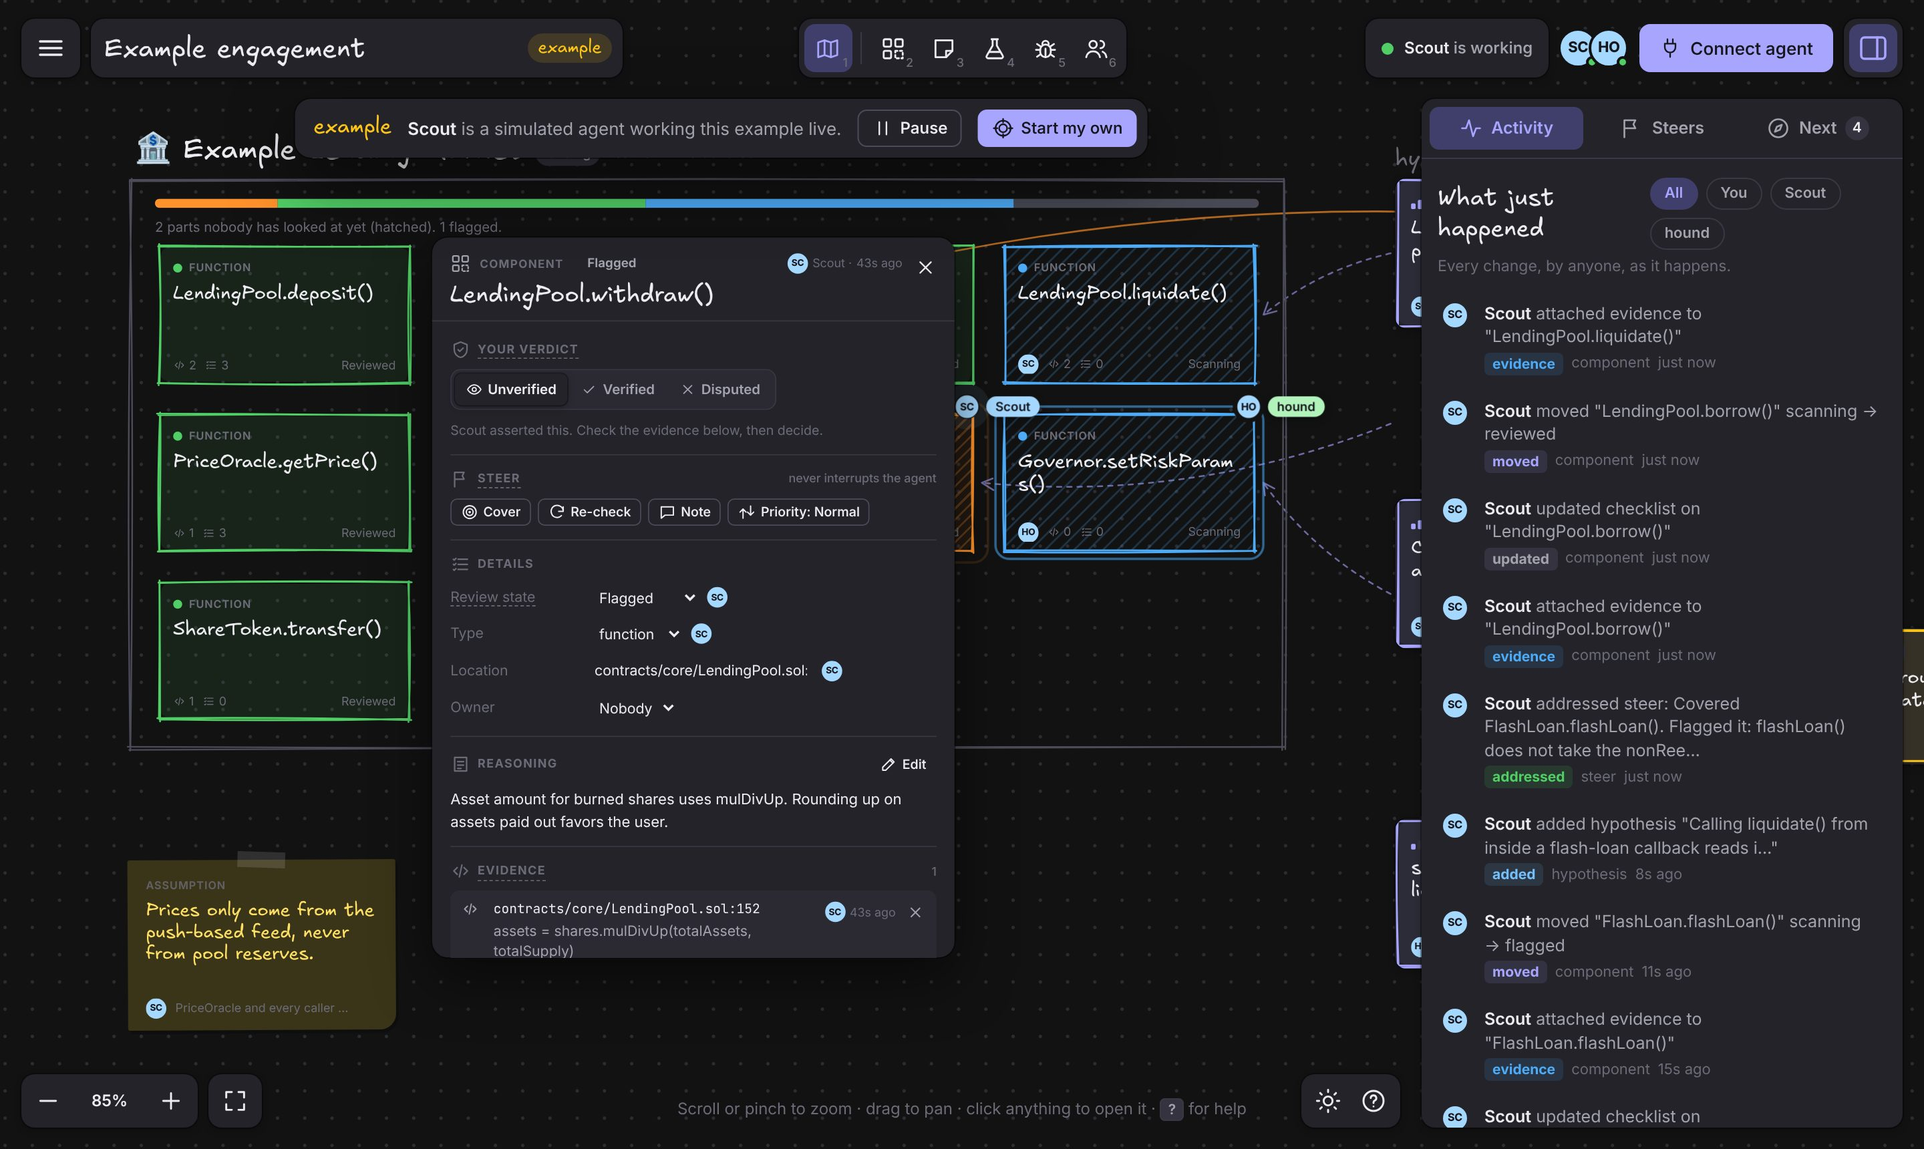
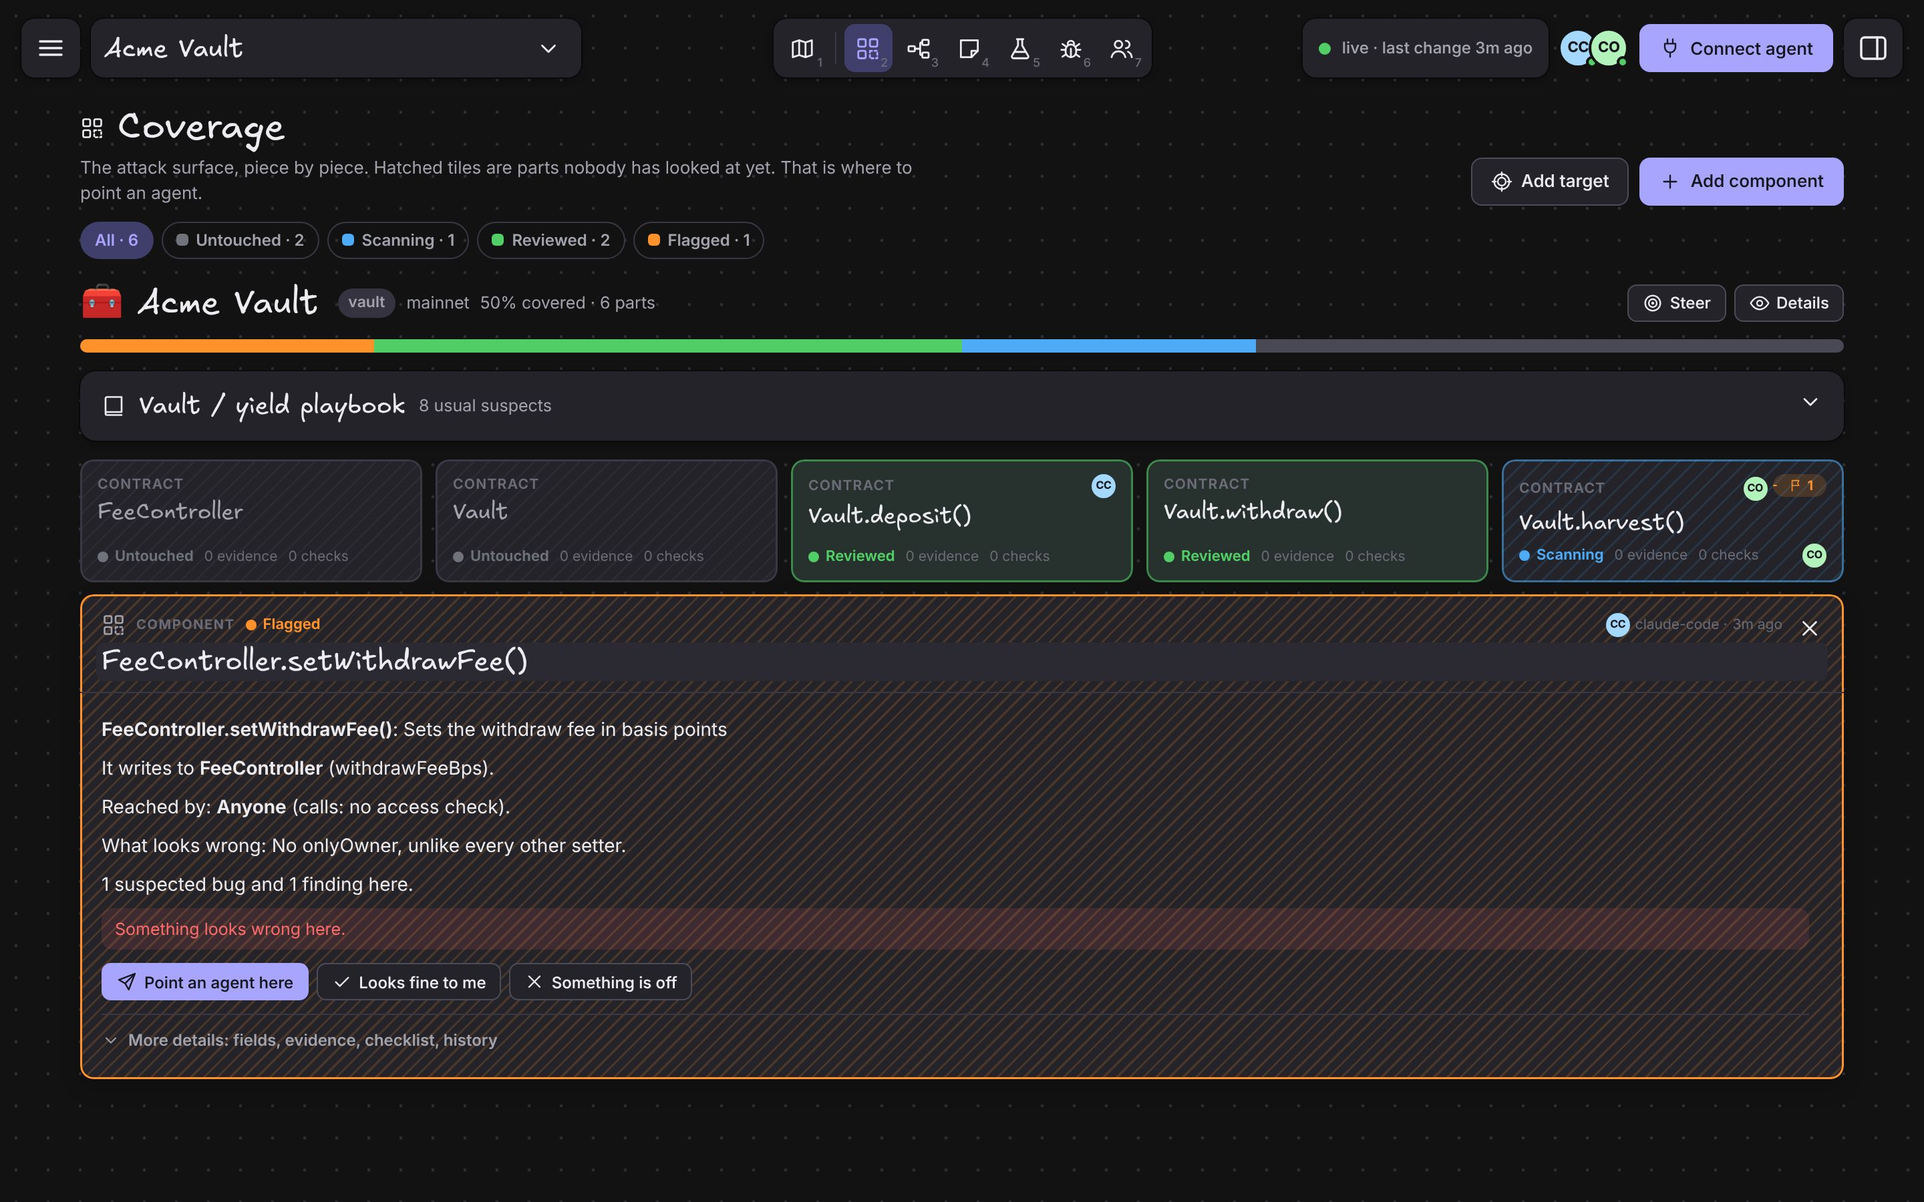
README: every feature, with fresh screenshots
Rewrites the README around what recon does now, in the same voice: the
engagement map, map first then hunt, the full-screen system map and its
flow, plain-language details, findings that hold up, steers that cannot be
ignored, agents that come to you, talking from the board, reports from your
skill, skills, hunts that last, the knowledge layer, swarms and themes. Each
comes with a screenshot of a realistic hunt built through the public API.

diff --git a/README.md b/README.md
@@ -9,6 +9,8 @@ can't see its progress, can't check what it did, and can't hand it the
 live, human-readable board. The agents do the tireless scanning, you bring
 intuition and judgement, and each side sees the other's work as it happens.
 
+![The engagement at a glance, with what needs you on the right](docs/img/map.jpg)
+
 ## Start in one line
 
 **Paste this into any coding agent** (Claude Code, OpenCode, Grok CLI, Codex, Gemini CLI, Cursor, anything with a terminal):
@@ -18,9 +20,9 @@ Run `npx -y github:devIykee/recon agent` and follow its instructions to do this 
 ```
 
 That's it: no install, no config, no restart. The agent starts the board in the
-background, tells you where it is (http://127.0.0.1:4317), sets up the
-engagement, and starts recording what it reviews, suspects and confirms. You watch,
-verify, dispute and steer from the browser.
+background, tells you where it is (http://127.0.0.1:4317), sets up the hunt for
+the project it is in, and starts recording what it maps, suspects and confirms.
+You watch, verify, dispute and steer from the browser.
 
 **Or install the tools once in your terminal**, so recon shows up as native MCP
 tools in every agent you have:
@@ -40,11 +42,16 @@ the project the agent is working in, and an agent switches with
 `recon-yeno`, …), `setup` lists them and `setup --clean` removes them.
 
 Needs Node 20+. Zero dependencies. Everything stays on your machine, in `~/.recon`.
+To type `recon` anywhere, put it on your PATH once:
+
+```sh
+echo 'export PATH="$HOME/.recon/bin:$PATH"' >> ~/.bashrc && source ~/.bashrc
+```
 
 ### Update
 
 ```sh
-recon update            # or: ~/.recon/bin/recon update
+recon update            # the first time: npx -y github:devIykee/recon#main update
 ```
 
 It downloads the latest recon from GitHub, installs it in `~/.recon/app` and
@@ -57,44 +64,85 @@ existed needs its agent restarted once.)
 
 ### Tested with real agents
 
-Against a small vulnerable vault, a Claude Code agent given only the line above
-set up the engagement, mapped the attack surface, and found all three planted
-bugs (reentrancy, an unprotected fee setter, first-depositor inflation) with
-file:line evidence. It answered a steer left mid-run, and when its claim was
-disputed it re-checked and downgraded it. A second agent joined over MCP,
-challenged a trust assumption, and *proposed* a re-rating for a yes/no instead
-of acting on its own. `recon setup` registration was checked against the real
-Claude Code, OpenCode, Codex, Gemini CLI and Grok CLI binaries; Claude Code,
-OpenCode and Grok also confirmed a live connection with all recon tools listed.
-
-![The project map](docs/img/map.jpg)
+The core loop was run with real Claude Code agents, not only unit tests.
+Against a small vulnerable vault, an agent given only the line above scanned the
+source, mapped 17 parts and 20 connections, wrote down five assumptions its
+developers made, and filed both real High bugs (an unprotected fee setter and
+first-depositor inflation) with file:line evidence. It declined to call the
+obvious-looking reentrancy a bug, explained why, and said plainly that it could
+not run tests on that machine instead of inventing results. Steered mid-hunt
+with "drop what you are doing and check harvest()", it answered on the board in
+15 seconds. Waiting for the human, it woke 6 seconds after a message was
+written on the board. Given the board's facts and the disclosure skill, it
+wrote a report that passed every check on the first try. `recon setup` was
+checked against the real Claude Code, OpenCode, Codex, Gemini CLI and Grok CLI
+binaries.
 
 To try the built-in example without an agent: `npx -y github:devIykee/recon serve`.
 It opens on an example engagement worked live by **Scout**, a simulated agent.
 
 ## What you get
 
-**A map of the whole engagement.** Zoomed out, it is five blocks: coverage, open
-findings, hypotheses in flight, the agents, and where to look next. Zoom in and
-each target is a frame of components colored by review state. Hatched tiles are
-parts nobody has looked at; that is where bugs hide. Hypotheses and findings sit
-in lanes beside the target, assumptions are pinned below, and each agent's
+**The engagement at a glance.** The first page is a map of the whole hunt.
+Zoomed out, it is five blocks: coverage, open findings, suspected bugs, the
+agents, and the next move. Zoom in and each target is a frame of parts colored
+by review state. Hatched tiles are parts nobody has looked at; that is where
+bugs hide. Suspected bugs and findings sit in lanes beside the target, the
+developers' assumptions are pinned below as sticky notes, and each agent's
 marker walks to whatever it is working on. Click anything to expand it in place.
 
-**A full-screen system map** (press 3): every contract, the people and roles
-that use it and the outside systems it depends on, with each connection drawn
-as a colored arrow. Zoom and drag it like a canvas, or go browser full screen.
-Click a part and everything unrelated fades, so you can read what it calls and
-what can reach it; below the map, its full flow appears: every path from where
-it starts to where it ends, each step clickable to follow it, so you see the
-zoomed-in and the zoomed-out view at once. An overview in the corner shows
-where you are.
+**Map first, then hunt.** Before anyone looks for bugs, an agent maps how the
+system fits together: every contract, the people and roles that use it, the
+outside systems it depends on, and how each part calls, pays, reads, owns or
+trusts the others. `recon scan` draws most of it straight from the Solidity
+source: inheritance, typed calls with function names, token transfers, low-level
+calls, and who is allowed to call what. Then the agent writes down what the
+developers assume (who is trusted, which invariants must hold, what inputs and
+tokens they expect), because bugs live where those turn out false. Agents cannot
+skip ahead: they cannot leave the map while parts are unconnected, or start
+hunting before the assumptions are written down.
 
-**Boards** for coverage, assumptions, hypotheses, the findings pipeline
-(recon → testing → reported → acknowledged → fixed → disclosed, drag to move),
-and agents.
+![The system map, full screen](docs/img/system-map.jpg)
 
-![Expanding a component](docs/img/detail.jpg)
+**A system map you can read with your eyes** (press 3). It fills the screen:
+who uses it on the left, the code in the middle, what it depends on on the
+right, a function grouped with its contract, and every connection a colored
+arrow. Drag it, zoom it, or go browser full screen. The legend doubles as a
+filter, so you can hide every arrow but the token transfers. Parts nobody has
+connected yet are outlined, with one click to ask an agent to map them.
+
+![The developers' assumptions beside the map](docs/img/assumptions.jpg)
+
+**Follow a connection.** Click a part and everything unrelated fades. Its card
+says in plain sentences what it reaches and what reaches it, and below the map
+its whole flow appears: every path from where things start to where they end,
+each hop labelled with how it connects. Click a step to follow it there; hover a
+path to light it up on the canvas. You see the zoomed-in and the zoomed-out view
+at once, and an overview in the corner shows where you are.
+
+![Following a connection: the part, its card, and the full flow below](docs/img/flow.jpg)
+
+**Everything explains itself.** Click any card, sticky note or tile and it opens
+with a few plain sentences first: what it is, what is known, what is still open,
+and what you can do about it ("Point an agent here", "Looks fine to me",
+"Something is off"). The fields, evidence, checklist and history are one click
+further down. Boards cover coverage, assumptions, suspected bugs, findings and
+agents.
+
+![A component, explained in plain words](docs/img/detail.jpg)
+
+**Findings that hold up.** An agent cannot file a finding until its confirmation
+card is filled: who the attacker is, what stands in their way, what still cannot
+happen, the funds at risk right now and how that was measured, whether it was
+already reported, and how it was verified. Severity has to be earned: Critical
+needs a path anyone can take and measured funds at risk; High needs an outsider
+path. A suspected bug is not confirmed without a code reference and a test, fork
+run or transaction; a "capability" (the power exists, no public path makes it
+fire) stays a capability until someone finds the trigger. Duplicates and already
+reported issues are caught, and weaker bugs that combine are filed as a chain,
+which only raises severity when the attacker controls the glue.
+
+![A finding, with its confirmation card answered](docs/img/finding.jpg)
 
 **Verify, don't trust.** Every claim carries the evidence the agent attached:
 the file and line, the function, the transaction, what it concluded and why.
@@ -104,26 +152,22 @@ made it a steer to revisit.
 
 **Steer, don't supervise.** On any item or agent: re-check this, challenge this
 assumption, cover this, verify this finding, raise or drop priority, leave a
-note. A steer never stops an agent. It goes open → seen → done, the agent reports
-back on the same item, and the card flips when it does.
+note. A steer never stops an agent, but it cannot be ignored either. The agent
+has to acknowledge it before its next finding, and once acknowledged it stays in
+front of the agent on every call until it reports back. If the agent carries on
+with something else for too long, its other work is refused until it answers. A
+steer sent from the hunt on screen still reaches an agent working in a different
+hunt.
 
-**A knowledge layer.** Pick the protocol type (lending, AMM, perps, bridge,
-staking, NFT market, governance, oracle, token, vault) and recon brings that
-type's playbook: the exploit classes that usually bite, in plain words with a
-"go deeper", and a checklist on every component. It suggests where to look next
-from untouched surface, unverified assumptions, confident hypotheses without
-evidence, and playbook gaps. One click turns a suggestion into a steer. Agents
-get the same context in their briefing, so instead of idling or going rogue
-they *propose* their next move for a quick yes or no. Security jargon is
-explained on hover throughout.
-
-**Swarms when you want them.** With a second agent the agents view becomes a
-swarm board: what each agent is doing, who owns which component (so agents don't
-trample each other), group steering, and health flags for agents that are idle,
-stuck, looping, noisy, or often disputed. With one agent, none of this gets in
-the way.
-
-![The swarm board](docs/img/swarm.jpg)
+**Agents that come to you.** Instead of idling, guessing or going rogue, agents
+*propose* their next move, often as a short list of options you answer with one
+click. The *For you* panel collects those questions, agents that need a nudge,
+and where recon itself suggests looking next: untouched surface, assumptions
+nobody checked, capabilities waiting on a trigger, unfinished cards. Every
+answer lands back with the agent. Each agent gets a short briefing of steers,
+disputed claims, its next action and ids, with the playbook and notes one call
+away, and a "before you stop" list so nothing is left behind in its terminal:
+what is left is recorded as an open thread.
 
 **Talk to agents from the board.** The Talk panel is a conversation with each
 agent, or all of them. What you write reaches the agent with its next step, and
@@ -132,18 +176,53 @@ an agent that has finished or is blocked does not just stop: it calls
 and wakes the moment you write. It answers in the same panel. You never have
 to switch to its terminal.
 
-**Your skills, and reports written your way.** Keep reusable instructions for
-your agents under Skills (K): how you audit a kind of protocol, house rules,
-and how you want disclosures written. They are stored once per machine as
-Claude-style `SKILL.md` folders in `~/.recon/data/skills`, so you can import a
-Claude skill as it is, and every agent sees them in its briefing and as MCP
-prompts. The built-in *Disclosure report* skill is the system prompt the agent
-writes reports with: plain prose for engineers and non-technical readers
-alike, honest severity in the opening sentences, every claim paired with its
-limits, what was checked and held, what was not reviewed, a concrete fix, and
-your name at the end. The agent gets the facts from the board, writes, and
-submits; markdown, a missing severity or a missing signature is sent back to
-fix. You pick one combined document or one per finding.
+![Talking to an agent, with its question waiting on a click](docs/img/talk.jpg)
+
+**Reports written your way.** Decide once how the disclosure goes out (one
+combined document, or one per finding), where the agent saves it, and whose
+name signs it. The agent writes it from your *Disclosure report* skill as its
+system prompt and the facts on the board: the confirmation card, the evidence,
+the suggested fix, what was checked and held, what was not reviewed, the scope
+and the disclosure channel. The result is plain prose for engineers and
+non-technical readers alike, with an honest severity in the first sentences and
+every claim paired with its limits. Markdown, a missing severity or a missing
+signature is sent back to fix. Only findings that pass every check go in, and
+the window says why the others stayed out.
+
+![The report, written by the agent](docs/img/report.jpg)
+
+**Your skills.** Keep reusable instructions for your agents under Skills (K):
+how you audit a kind of protocol, your house rules, how you want reports
+written. They are stored once per machine as Claude-style `SKILL.md` folders in
+`~/.recon/data/skills`, so you can import a Claude skill as it is. Every agent
+sees them in its briefing and as MCP prompts.
+
+![Skills, with the built-in disclosure report skill](docs/img/skills.jpg)
+
+**Hunts that last.** One hunt per project, named after the repository the agent
+works in, so two agents on two projects never mix their work. Close the tab, the
+laptop or the agent: it is all there when you come back, even a year later.
+Snapshots are taken hourly while things change (all of the last two days are
+kept, then one a day for good), and any of them can be restored (the current state is snapshotted first). Removed hunts go
+to a trash folder, not away.
+
+![Hunts, one per project, with snapshots](docs/img/hunts.jpg)
+
+**A knowledge layer.** Pick the protocol type (lending, AMM, perps, bridge,
+staking, NFT market, governance, oracle, token, vault, factory, DAO module, NFT
+custody, naming) and recon brings that type's playbook: the exploit classes that
+usually bite, in plain words, and a checklist on every part. A target can stack
+playbooks and rule classes out; a class marked "not applicable" stops being
+suggested, and an agent can dismiss a suggestion that does not apply with the
+reason. Security jargon is explained on hover throughout.
+
+**Swarms when you want them.** With a second agent the agents view becomes a
+swarm board: what each agent is doing, who owns which part (so agents don't
+trample each other), group steering, and health flags for agents that are idle,
+stuck, looping, noisy, or often disputed. With one agent, none of this gets in
+the way.
+
+![The swarm board](docs/img/swarm.jpg)
 
 **Make it yours.** Menu → *Appearance* picks a theme, the fonts, the spacing
 and the text size, saved in your browser. Besides the default dark and light
@@ -159,19 +238,19 @@ JSON (or importing a `.json` file); start from the current theme with one click:
 `base` is `dark` or `light`; any color you leave out comes from it. The colors
 you can set are listed in the Appearance window.
 
+![Appearance, with the Nord theme](docs/img/themes.jpg)
+
 **Live everywhere.** Every change from any agent, the API, or another tab
 appears immediately, attributed and animated, in an activity feed you can filter
 by author. Nothing needs a refresh.
-
-![Light theme](docs/img/light.jpg)
 
 ## Four ways to connect
 
 | | |
 | --- | --- |
-| **MCP** | `recon mcp --name my-agent`: 26 tools (briefing, scan and map, coverage, hypotheses, findings, steers, proposals, skills, the report…) and your skills as prompts. Starts a local hub if none is running. |
-| **CLI** | `RECON_AGENT=my-agent recon briefing`, `recon coverage "Vault.withdraw()" reviewed --evidence "Vault.sol:120"`… |
-| **HTTP + WebSocket** | REST writes with `X-Recon-Agent: my-agent`; a socket at `/ws` streams every change. |
+| **MCP** | `recon mcp --name my-agent`: 29 tools (briefing, scan and map, coverage, suspected bugs, findings, steers, proposals, talk and wait, skills, the report…) and your skills as prompts. Starts a local board if none is running. |
+| **CLI** | `RECON_AGENT=my-agent recon briefing`, `recon scan . --target Vault`, `recon coverage "Vault.withdraw()" reviewed --evidence "Vault.sol:120"`, `recon wait`… |
+| **HTTP + WebSocket** | REST writes with `X-Recon-Agent: my-agent`; a socket at `/ws` streams every change; MCP over HTTP at `/mcp`. |
 | **Drop-in JSON** | `recon serve --watch inbox.json`: your agent writes a file and recon merges it item by item. |
 
 Full reference: [docs/API.md](docs/API.md). Every entity, field and enum:
@@ -189,7 +268,11 @@ Full reference: [docs/API.md](docs/API.md). Every entity, field and enum:
   collisions are rare. When two writers do touch the same field, only that field
   is affected and the change glows on every screen. Evidence merges by id and
   checklists merge per item, so concurrent additions never clobber each other.
-- **Ownership.** Agents claim components (starting to scan one claims it), and
+- **Gates, not guidelines.** The rules that matter (map first, acknowledge
+  steers, earn the severity, prove before confirming) are enforced on every
+  write from every agent, with a refusal that says exactly what to do instead.
+  You can always override.
+- **Ownership.** Agents claim parts (starting to scan one claims it), and
   another agent can only add evidence there.
 - **Local-first.** By default the hub binds to localhost, keeps data in
   `~/.recon`, works offline, refuses foreign Host headers and cross-origin writes,
@@ -241,19 +324,25 @@ Details, including what a hosted product still needs: [docs/DEPLOY.md](docs/DEPL
 ## Develop
 
 ```sh
-npm test                         # node:test; store, knowledge, hub, mcp, drop-in, demo agent
+npm test                         # node:test: store, gates, hub, mcp, reports, updates, scanner…
 node bin/recon.js serve --empty --no-demo
 ```
 
 ```
-bin/recon.js      cli: serve, mcp, and every read/write command
-src/model.js      entities, enums, field ownership
-src/store.js      per-field LWW store, merge, persistence, encryption at rest
-src/knowledge.js  exploit classes, playbooks, checklists, suggestions, agent briefing
-src/hub.js        http api, websocket, auth/tenancy, static ui
-src/mcp.js        mcp server (stdio)
-src/demo.js       the example agent
-web/              the ui: no build step, plain ES modules
+bin/recon.js        cli: serve, mcp, setup, update, and every read/write command
+src/model.js        entities, enums, field ownership
+src/store.js        per-field LWW store, merge, persistence, encryption at rest
+src/engagements.js  hunts: one file each, snapshots, restore, trash
+src/quality.js      the gates: steers, confirmation card, severity, evidence, duplicates
+src/proactive.js    what an agent must do now, its pulse, before-you-stop
+src/knowledge.js    exploit classes, playbooks, checklists, suggestions, the briefing
+src/scan.js         the Solidity scanner; mapping.js applies a map to the board
+src/report.js       the report brief, the prose checks, submission
+src/skills.js       skills as SKILL.md folders, with the built-in disclosure skill
+src/hub.js          http api, websocket, auth/tenancy, mcp over http, static ui
+src/mcp.js          mcp server; mcpsup.js swaps it for a new version live
+src/setup.js        one-line setup for every agent cli; update.js for recon update
+web/                the ui: no build step, plain ES modules
 ```
 
 The visual language borrows from [Excalidraw](https://excalidraw.com) and uses
